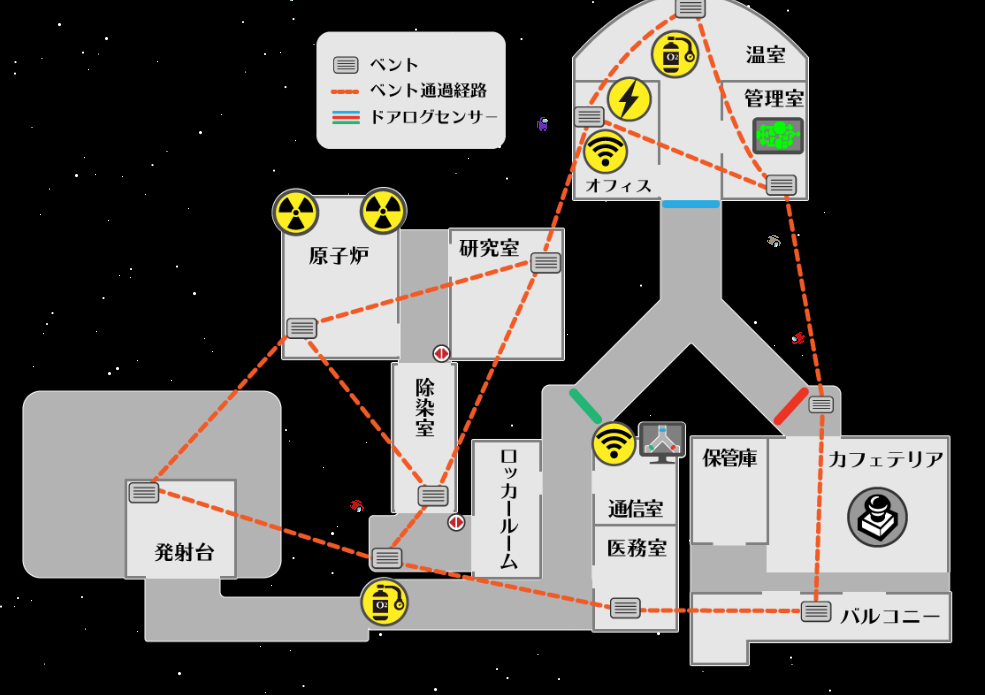
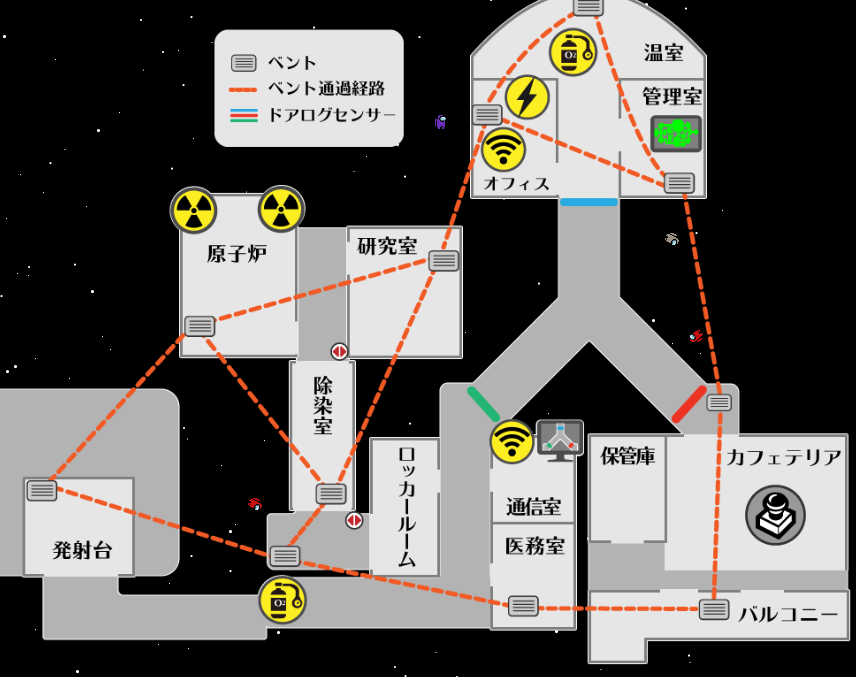
MapとPlayerWidgetを左に寄せて、右上を空ける

diff --git a/lib/View/map_widget.dart b/lib/View/map_widget.dart
@@ -8,6 +8,8 @@ import 'package:kk_amongus_tool/ViewModel/home_view_model.dart';
 import 'package:provider/provider.dart';
 
 class MapWidget extends StatelessWidget {
+  static const playerInitialY = 60.0;
+
   final GlobalKey _globalKey;
 
   const MapWidget(this._globalKey) : super(key: _globalKey);
@@ -23,9 +25,10 @@ class MapWidget extends StatelessWidget {
           0,
           Container(
               color: Colors.black,
-              margin: const EdgeInsets.only(bottom: 100),
-              child: Center(
-                  child: Image.asset(model.mapPath, fit: BoxFit.contain))));
+              width: MediaQuery.of(context).size.width,
+              padding: const EdgeInsets.only(top: 140, right: 40),
+              alignment: Alignment.centerLeft,
+              child: Image.asset(model.mapPath, fit: BoxFit.contain)));
 
       return Stack(
         children: list,
@@ -37,7 +40,10 @@ class MapWidget extends StatelessWidget {
       Player player, int index, HomeViewModel model, GlobalKey globalKey) {
     var offset = player.offsets[model.currentRound];
     if (offset == Offset.zero) {
-      offset = Offset(10.0 + 50 * index, 530.0);
+      // プレイヤー初期位置
+      int numberOfLine = index ~/ 5;
+      offset =
+          Offset(10.0 + 50 * (index % 5), playerInitialY + 50 * numberOfLine);
     }
     return Positioned(
       top: offset.dy,
@@ -56,8 +62,8 @@ class MapWidget extends StatelessWidget {
           // マップ外に配置されないように位置を補正
           final lastDx = min(
               box.size.width - PlayerWidget.size.width, max(0.0, offset.dx));
-          final lastDy = min(
-              box.size.height - PlayerWidget.size.height, max(0.0, offset.dy));
+          final lastDy = min(box.size.height - PlayerWidget.size.height,
+              max(playerInitialY, offset.dy));
           model.movePlayer(player, Offset(lastDx, lastDy));
         },
       ),

diff --git a/lib/View/home_screen.dart b/lib/View/home_screen.dart
@@ -14,6 +14,7 @@ import 'cool_time_list.dart';
 
 class HomeScreen extends StatelessWidget {
   static const buttonBarHeight = 50.0;
+  static const secondButtonBarHeight = 28.0;
 
   const HomeScreen({Key? key}) : super(key: key);
 
@@ -27,6 +28,11 @@ class HomeScreen extends StatelessWidget {
             height: MediaQuery.of(context).size.height,
             margin: const EdgeInsets.only(top: buttonBarHeight),
             child: MapWidget(GlobalKey()),
+          ),
+          Padding(
+            padding: const EdgeInsets.only(
+                top: buttonBarHeight + secondButtonBarHeight),
+            child: RoundSelectionWidget(model),
           ),
           Padding(
             padding: const EdgeInsets.only(top: buttonBarHeight),
@@ -64,7 +70,6 @@ class HomeScreen extends StatelessWidget {
                     );
                   },
                 ),
-                RoundSelectionWidget(model),
               ],
             ),
           ),
